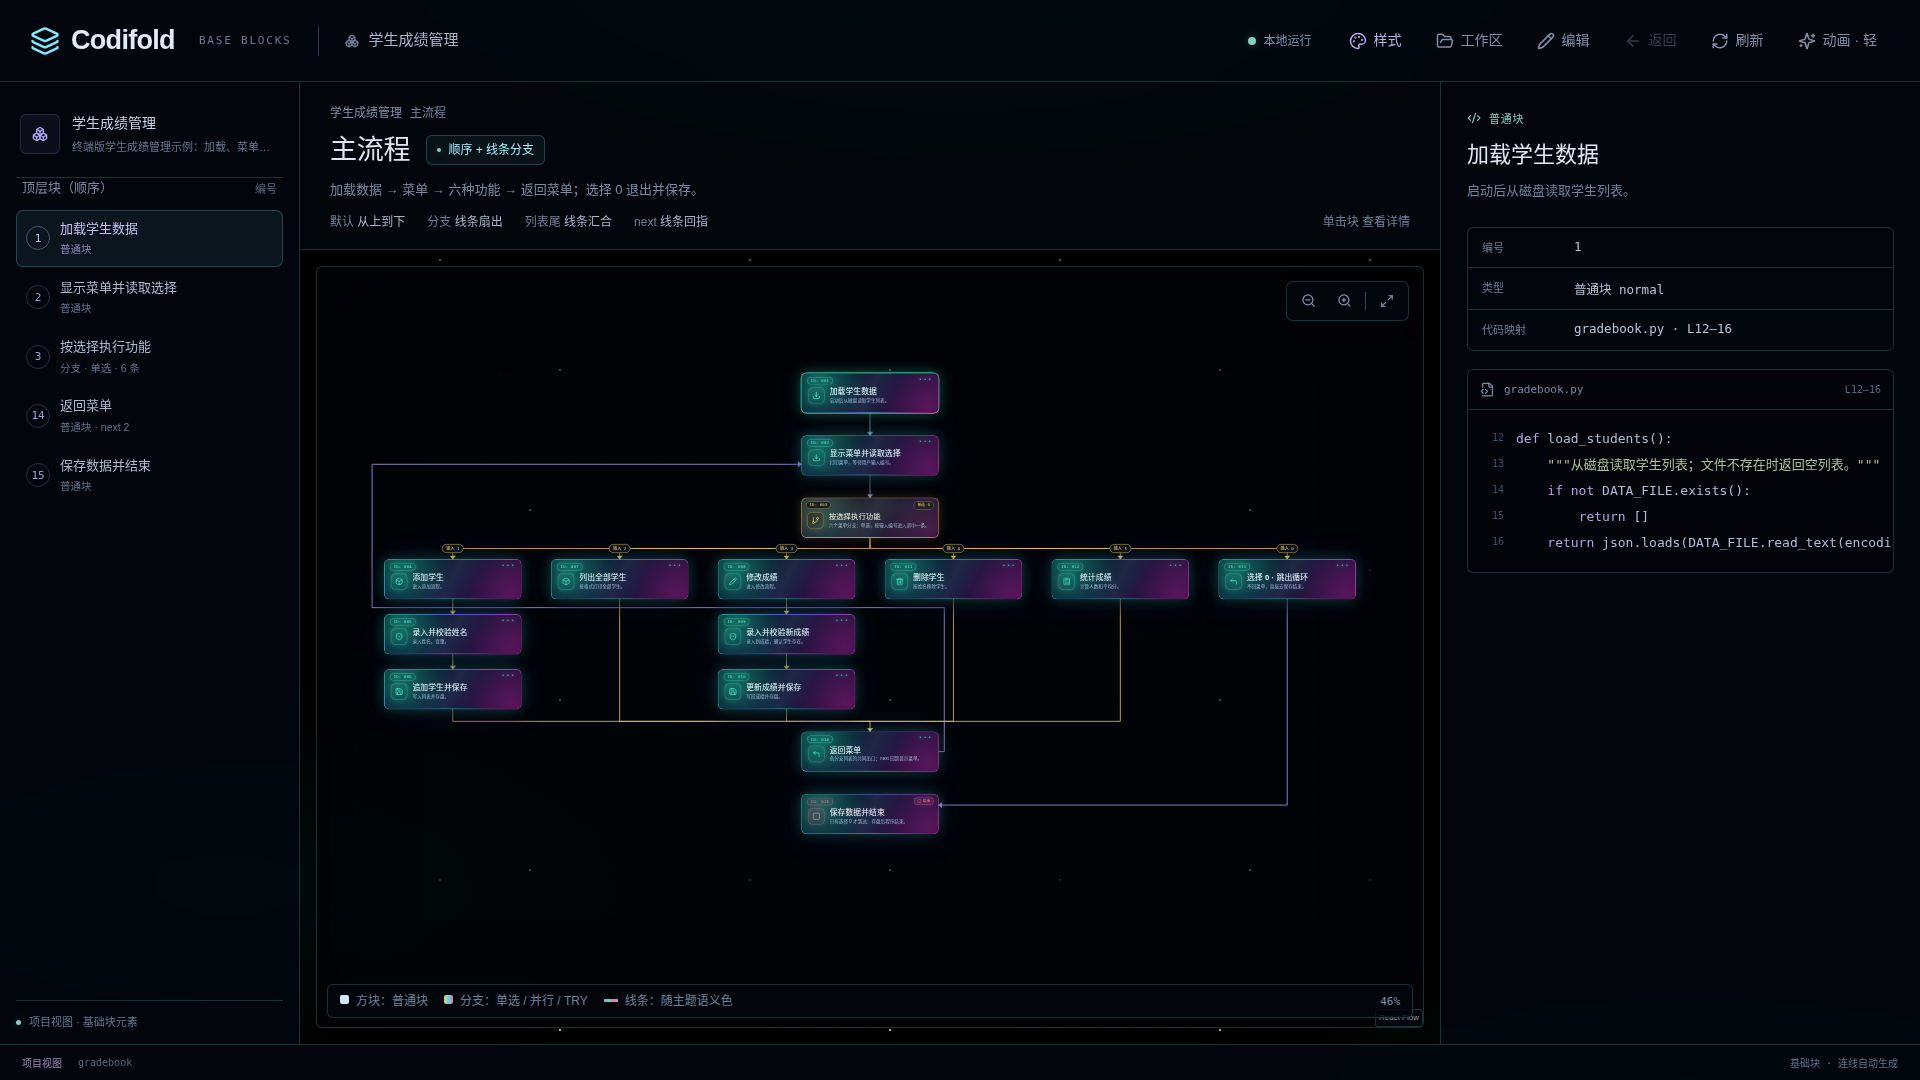
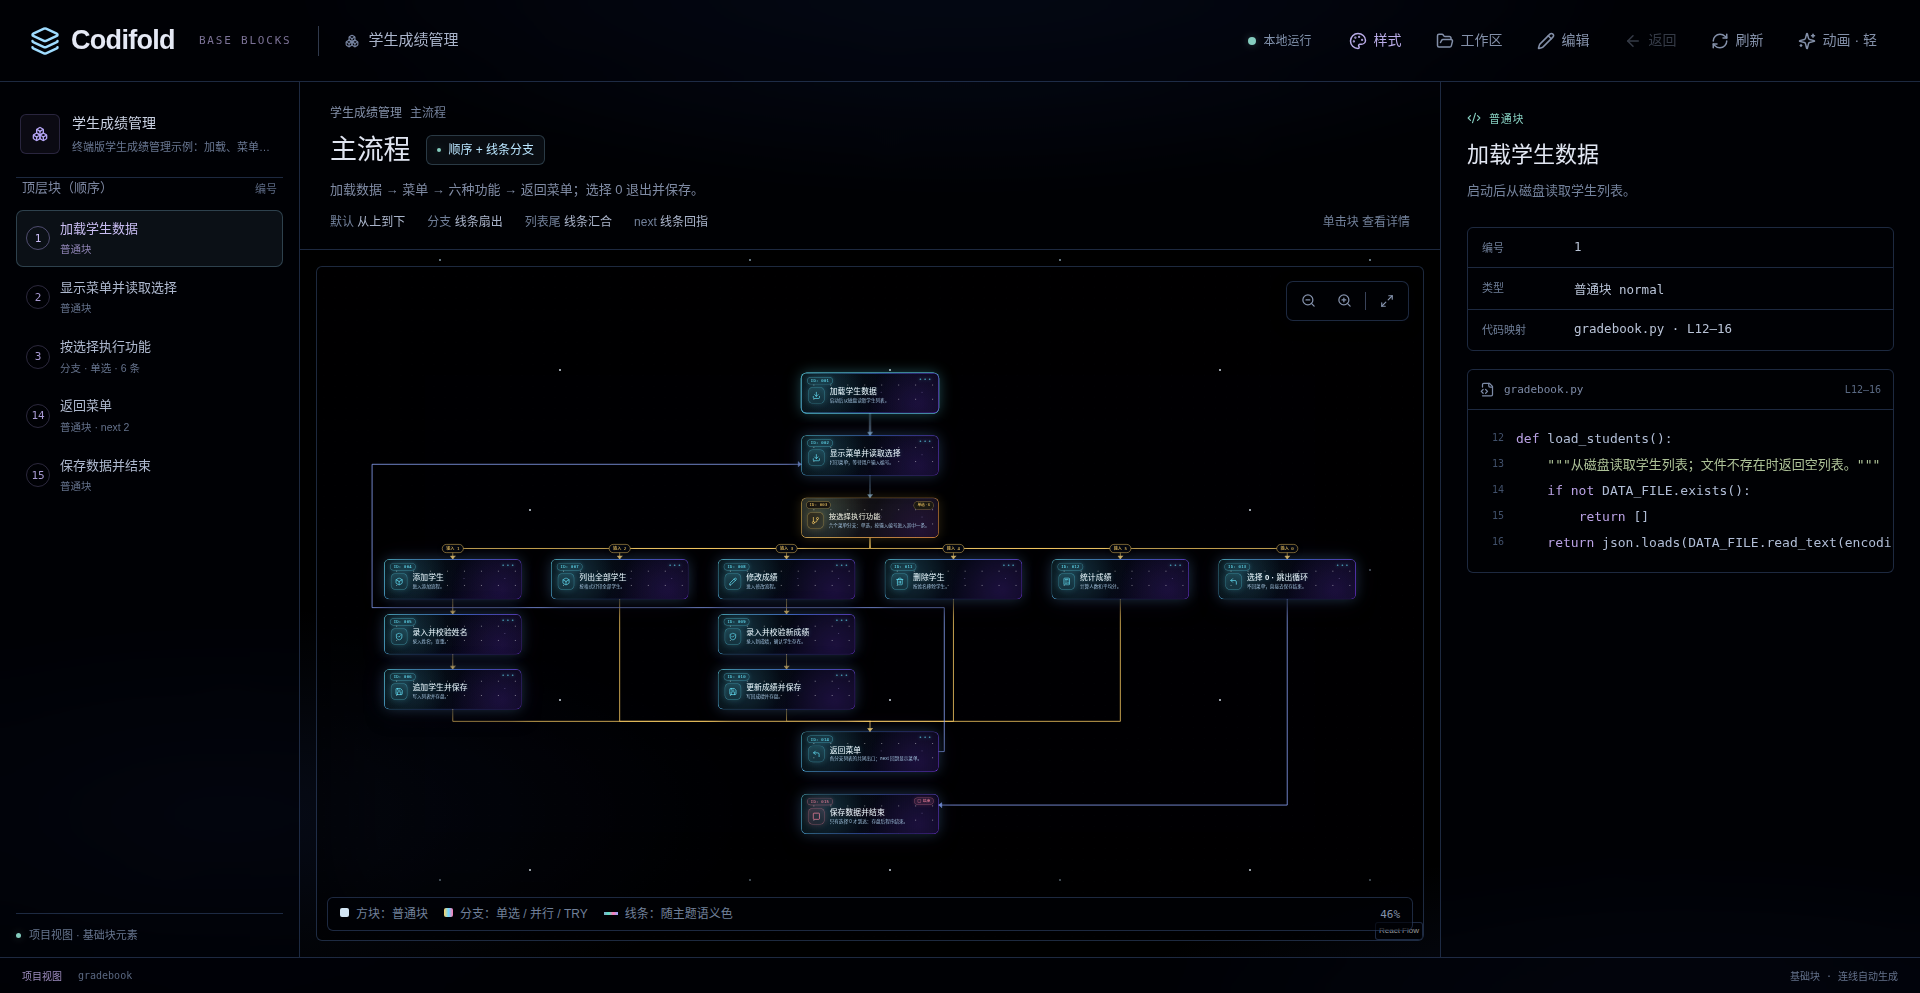
README: 突出核心定位（理解跟不上 AI 的四个目标），截图换星海主题

diff --git a/README.md b/README.md
@@ -1,8 +1,13 @@
 # Codifold · 中文流程阅读器
 
-把项目浓缩成少量汉语步骤，再按需展开。先理解“程序在做什么”，需要细节时再看对应代码。
+**核心问题：AI 写代码的速度越来越快，人的理解跟不上。** Codifold 把项目转换成规整的中文逻辑图：先理解“程序在做什么”，需要细节时再看对应代码。
 
-![学生成绩管理示例：主流程视图——左侧块列表，中间分支扇出与回指线，右侧块详情与代码映射](docs/screenshot-gradebook.png)
+1. **逻辑抽象** —— 把具体代码抽象成逻辑图：一个算法怎么推导、在项目中如何运行、每个细节机制为什么这样取舍。
+2. **快速理解** —— 面对陌生项目，用 AI 快速转换成逻辑图：知道原理是什么、如何运行，可深可浅地建立认知。
+3. **跟上 AI 的节奏** —— AI 编程越写越快，人只需要处理逻辑思想、不陷入代码细节：既能快速巩固知识原理，也能在做项目产品时不丢失对全局的把握。
+4. **规整的逻辑图** —— 连线与排版由工具负责，JSON 语法规整：人或 AI 都能快速做出整齐的逻辑图，避免手写 Mermaid 的线条混乱、排版不齐。
+
+![学生成绩管理示例：主流程视图（星海主题）——左侧块列表，中间分支扇出与回指线，右侧块详情与代码映射](docs/screenshot-gradebook.png)
 
 流程描述由人或外部 AI 编写成 JSON。Codifold 只负责校验、读取、渲染和编辑 JSON，不分析源码、不调用模型、不执行被讲解的项目。
 
